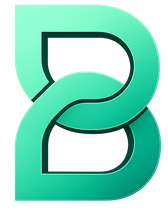
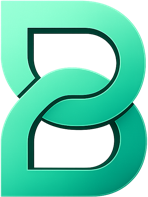
fix: polish marketing brand motion and seo

diff --git a/components/HeroSection.tsx b/components/HeroSection.tsx
@@ -53,7 +53,7 @@ export function HeroSection() {
       />
       <div className="container-x relative pt-14 pb-20 md:pt-20 md:pb-28">
         <div className="grid gap-14 lg:grid-cols-[1.05fr_0.95fr] lg:items-center lg:gap-16">
-          <div>
+          <div className="bantle-fade-up">
             <span className="inline-flex items-center gap-2 rounded-full border border-teal-200 bg-teal-50 px-3 py-1.5 text-xs uppercase tracking-[0.14em] text-teal-700">
               <span className="h-1.5 w-1.5 rounded-full bg-teal-500" />
               Coming soon · Made in India
@@ -99,7 +99,7 @@ function HeroPill({ children }: { children: ReactNode }) {
 function AppPreviewVisual() {
   return (
     <div
-      className="relative mx-auto w-full max-w-[420px]"
+      className="bantle-scene bantle-fade-up-delayed relative mx-auto w-full max-w-[420px]"
       role="img"
       aria-label="Illustrative Bantle app preview showing example subscription slots with neutral placeholder data, a verified host, a propose-a-deal action, and a note that chat starts after a deal request"
     >
@@ -108,7 +108,8 @@ function AppPreviewVisual() {
         aria-hidden="true"
         className="pointer-events-none absolute -inset-6 -z-10 rounded-[48px] bg-gradient-to-br from-teal-200/50 to-transparent blur-2xl"
       />
-      <div className="rounded-[40px] border border-line bg-white p-3 shadow-[0_40px_90px_-30px_rgba(0,60,52,0.45)] ring-1 ring-teal-900/5">
+      <div className="bantle-float">
+        <div className="bantle-tilt rounded-[40px] border border-line bg-white p-3 shadow-[0_40px_90px_-30px_rgba(0,60,52,0.45)] ring-1 ring-teal-900/5">
         <div className="overflow-hidden rounded-[32px] border border-line bg-cream">
           {/* status bar */}
           <div className="flex items-center justify-between px-5 pt-4 text-ink">
@@ -126,8 +127,8 @@ function AppPreviewVisual() {
               <img
                 src="/brand/bantle-mark.png"
                 alt=""
-                width={168}
-                height={214}
+                width={148}
+                height={197}
                 className="h-6 w-auto shrink-0 object-contain"
               />
               <span>
@@ -233,6 +234,7 @@ function AppPreviewVisual() {
             <ShieldCheck className="h-4 w-4 text-teal-600" strokeWidth={1.9} />
             Identity verification is private and manually reviewed
           </div>
+        </div>
         </div>
       </div>
     </div>

diff --git a/components/BrandMark.tsx b/components/BrandMark.tsx
@@ -6,17 +6,18 @@ interface BrandMarkProps {
   size?: "sm" | "md" | "lg";
 }
 
+// The mark is a tightly-cropped (zero-padding) glyph at 148x197, so a small
+// gap reads as one wordmark unit.
 const sizeClasses = {
-  sm: { mark: "h-6 w-auto", text: "text-[18px]", gap: "gap-2" },
-  md: { mark: "h-7 w-auto", text: "text-[20px]", gap: "gap-2" },
-  lg: { mark: "h-9 w-auto", text: "text-[25px]", gap: "gap-2.5" },
+  sm: { mark: "h-7 w-auto", text: "text-[20px]", gap: "gap-1.5" },
+  md: { mark: "h-9 w-auto", text: "text-[23px]", gap: "gap-1.5" },
+  lg: { mark: "h-11 w-auto", text: "text-[29px]", gap: "gap-2" },
 };
 
 // Marketing-only brand lockup (header, mobile nav, footer). The admin panel
 // uses its own text branding and does not import this component, so changes
-// here do not affect admin. The logo is the clean transparent mint mark with
-// no chip/background; the "Bantle" wordmark uses a lighter, tighter treatment
-// to match the mobile app's visual tone.
+// here do not affect admin. Clean transparent mint mark with no chip; the
+// "Bantle" wordmark uses a semibold, tight treatment beside the mark.
 export function BrandMark({ light = false, size = "md" }: BrandMarkProps) {
   const classes = sizeClasses[size];
 
@@ -26,12 +27,12 @@ export function BrandMark({ light = false, size = "md" }: BrandMarkProps) {
       <img
         src="/brand/bantle-mark.png"
         alt=""
-        width={168}
-        height={214}
+        width={148}
+        height={197}
         className={`${classes.mark} shrink-0 object-contain`}
       />
       <span
-        className={`${classes.text} font-medium leading-none tracking-[-0.01em] ${
+        className={`${classes.text} font-semibold leading-none tracking-[-0.02em] ${
           light ? "text-cream" : "text-teal-900"
         }`}
       >

diff --git a/app/globals.css b/app/globals.css
@@ -75,3 +75,55 @@
     text-wrap: pretty;
   }
 }
+
+/* Marketing motion helpers. CSS-only, no dependencies. All motion is gated
+   behind prefers-reduced-motion: no-preference so reduced-motion users get a
+   static, fully-visible layout. These utility classes only animate where they
+   are explicitly applied (marketing pages); they do not affect admin. */
+@keyframes bantle-float {
+  0%,
+  100% {
+    transform: translateY(0);
+  }
+  50% {
+    transform: translateY(-10px);
+  }
+}
+
+@keyframes bantle-fade-up {
+  from {
+    opacity: 0;
+    transform: translateY(14px);
+  }
+  to {
+    opacity: 1;
+    transform: translateY(0);
+  }
+}
+
+/* 3D perspective container + a subtle resting tilt that levels on hover. */
+.bantle-scene {
+  perspective: 1400px;
+}
+.bantle-tilt {
+  transition: transform 0.7s cubic-bezier(0.22, 1, 0.36, 1);
+}
+
+@media (prefers-reduced-motion: no-preference) {
+  .bantle-float {
+    animation: bantle-float 7s ease-in-out infinite;
+    will-change: transform;
+  }
+  .bantle-fade-up {
+    animation: bantle-fade-up 0.7s ease-out both;
+  }
+  .bantle-fade-up-delayed {
+    animation: bantle-fade-up 0.7s ease-out 0.12s both;
+  }
+  .bantle-tilt {
+    transform: rotateX(3deg) rotateY(-6deg);
+  }
+  .bantle-tilt:hover {
+    transform: rotateX(0deg) rotateY(0deg);
+  }
+}

diff --git a/app/sitemap.ts b/app/sitemap.ts
@@ -17,7 +17,7 @@ const publicRoutes = [
 ];
 
 export default function sitemap(): MetadataRoute.Sitemap {
-  const lastModified = new Date("2026-06-03");
+  const lastModified = new Date("2026-06-27");
 
   return publicRoutes.map((route) => ({
     url: `${SITE_URL}${route}`,

diff --git a/reports/WEB_MARKETING_ANIMATION_SEO_BRAND_POLISH_REPORT.md b/reports/WEB_MARKETING_ANIMATION_SEO_BRAND_POLISH_REPORT.md
@@ -1,0 +1,244 @@
+# Bantle Web — Marketing Animation, SEO & Brand Polish Report
+
+**Document status:** Implementation report (marketing UI / SEO polish only)
+**Date:** 2026-06-27
+**Owner:** Bantle founder / implementation agent (Claude Opus 4.8)
+**Web repo:** `/Users/syedejazahammed/Documents/GitHub/bantle-web`
+**Web branch:** `feature/trust-verification-admin-queues`
+**Mobile repo (reference only, not modified):** `/Users/syedejazahammed/Documents/GitHub/bantle`
+
+---
+
+## 1. Summary
+
+Final polish pass: enlarged the Bantle brand lockup and tightened the
+logo↔wordmark gap to near-zero, added tasteful CSS-only motion (reduced-motion
+safe), and audited SEO (already strong) with a small freshness fix. The
+remaining gap was residual transparent padding in the mark image; the asset was
+re-cropped to its exact glyph box (148×197, zero padding), so a `gap-1.5` now
+reads as one unit. The hero app-preview gained a subtle perspective tilt (levels
+on hover) and a gentle float; the hero copy fades up on load. All motion is gated
+behind `prefers-reduced-motion: no-preference`.
+
+No dependencies added (CSS/Tailwind only). No admin, DB, backend, RLS, function,
+API, middleware, or mobile change. Marketing pages stay light/cream; screenshots
+stay removed; no copy changed. `tsc`, `eslint`, `next build`, and
+`git diff --check` all pass (44/44 static pages); the reduced-motion guard and
+keyframes are present in the production CSS bundle.
+
+---
+
+## 2. Branch
+
+```text
+feature/trust-verification-admin-queues
+```
+
+---
+
+## 3. Founder feedback
+
+```text
+1. Add subtle 3D effects and cool animations if possible.
+2. Check whether the site is optimized for SEO.
+3. Slightly increase the Bantle logo size and Bantle text size.
+4. Reduce the space between the logo and the Bantle text even more.
+5. Apply the spacing/size refinement to both navbar and footer.
+```
+
+---
+
+## 4. Scope
+
+```text
+Edited: components/BrandMark.tsx, components/HeroSection.tsx, app/globals.css
+        (scoped motion utilities), app/sitemap.ts (freshness), public/brand/
+        bantle-mark.png (re-cropped), reports/*.
+Not edited: admin, DB/backend/RLS/functions/API, middleware, mobile repo,
+            package.json/lock, app/layout.tsx (SEO already complete), Header/Footer
+            (brand flows through BrandMark; no edit needed), marketing page files.
+```
+
+---
+
+## 5. Logo size / spacing changes
+
+```text
+- Root cause of the lingering gap: bantle-mark.png still had ~14px transparent
+  left padding. Re-cropped from the original to the exact glyph bounding box ->
+  148×197 with 0px padding on all sides.
+- BrandMark sizes increased and gap tightened:
+    navbar (md): mark h-7 w-7-ish -> h-9 (36px), text 20px -> 23px, gap-2 -> gap-1.5
+    footer (lg): mark -> h-11 (44px), text 25px -> 29px, gap-2 (kept)
+    sm:          mark h-7, text 20px, gap-1.5
+  Wordmark is now font-semibold with tracking-[-0.02em]; rendered height-driven
+  (w-auto) at the true 148:197 ratio, no chip/background.
+- Same BrandMark drives the desktop navbar, mobile slide-out nav, and footer, so
+  the bigger/tighter lockup applies everywhere consistently.
+- Hero app-preview header mark updated to the same asset/ratio.
+```
+
+---
+
+## 6. 3D / animation / card polish
+
+```text
+Added to app/globals.css (CSS-only, no library), all gated behind
+@media (prefers-reduced-motion: no-preference):
+- @keyframes bantle-float (gentle ±10px translateY, 7s ease-in-out infinite).
+- @keyframes bantle-fade-up (opacity + 14px rise, 0.7s) + a delayed variant.
+- .bantle-scene (perspective: 1400px), .bantle-tilt (resting
+  rotateX(3deg) rotateY(-6deg) that eases to flat on hover over 0.7s).
+
+Applied in HeroSection only:
+- Hero copy column: bantle-fade-up on load.
+- App-preview: wrapped in a perspective scene; the card has a subtle 3D tilt
+  that levels on hover and a slow float; it also fades up (delayed).
+- Existing card hover-lift/shadow on FeatureCard, HowItWorks, AppPreview, FAQ,
+  Support cards is retained (no change needed).
+
+Safety/performance:
+- Motion uses only transform/opacity (GPU-friendly, no layout shift).
+- Reduced-motion users get a static, fully-visible layout (verified in built CSS).
+- No JS listeners, no scroll/mouse handlers, no dependencies.
+- Legal/prose text blocks are not animated.
+```
+
+---
+
+## 7. SEO audit findings
+
+```text
+Already strong (app/layout.tsx + sitemap.ts + robots.ts + file-based OG/Twitter):
+- metadataBase set from SITE_URL; title default + template; description; keywords;
+  applicationName/creator/publisher/category/authors; canonical "/".
+- Open Graph (type/locale/url/siteName/title/description) and Twitter
+  (summary_large_image) configured.
+- File-based opengraph-image.tsx and twitter-image.tsx exist in (marketing).
+- robots metadata (index/follow + googleBot directives); icons (icon.svg,
+  apple-icon.svg).
+- Per-page metadata exports (title/description) on content pages.
+- app/robots.ts disallows /admin, /admin/, /reset-password, /verify and points
+  to sitemap.xml.
+- app/sitemap.ts lists only public marketing routes; admin/verify/reset excluded.
+- Heading structure: one H1 per page (HeroSection on home, PageHeader elsewhere).
+- Brand images use alt="" (decorative, beside the visible "Bantle" wordmark).
+
+Verdict: SEO optimized: YES (already comprehensive); only a freshness nit found.
+```
+
+---
+
+## 8. SEO fixes implemented
+
+```text
+- sitemap.ts lastModified refreshed 2026-06-03 -> 2026-06-27 (fresher crawl signal).
+- Confirmed (no change needed): admin/verify/reset excluded from sitemap + robots;
+  metadataBase present; OG/Twitter present; one H1 per page; decorative alt on
+  brand images.
+
+Pending / for production confirmation:
+- SITE_URL (https://bantle.in) drives metadataBase, canonical, OG, sitemap, robots.
+  Confirm this is the final production domain before launch; no env change made.
+- Optional future: a web app manifest (PWA) and explicit per-page OG images — not
+  required for indexing; deferred to avoid scope creep.
+```
+
+---
+
+## 9. Marketing page consistency check
+
+```text
+Audited /, how-it-works, safety, privacy, faq, terms, about, support, verify,
+refund-policy, community-guidelines, account-deletion, child-safety-standards.
+All share the updated Header (bigger/tighter lockup + shadow), Footer (grouped
+links + lockup), and PageHeader (mint band); content pages float in white cards
+over mint bands. All light/cream, consistent spacing/typography, no dark mismatch.
+No per-page edits required this pass; the bigger logo + motion flow through shared
+components. /verify and /reset-password remain compact auth screens (unchanged).
+```
+
+---
+
+## 10. Admin untouched confirmation
+
+```text
+git status shows changes only in components/{BrandMark,HeroSection}, app/globals.css,
+app/sitemap.ts, and public/brand/bantle-mark.png. NO changes under app/admin,
+components/admin, lib/admin, app/api, or middleware.ts. The globals.css additions
+are opt-in utility classes used only on marketing pages; admin does not use them.
+```
+
+---
+
+## 11. What did not change
+
+```text
+- app/layout.tsx (SEO already complete), Header.tsx, Footer.tsx, FeatureCard.tsx,
+  PageHeader.tsx, MobileNav.tsx (brand flows via BrandMark), marketing page files.
+- DB, migrations, RLS, Supabase/Edge functions, backend, API, admin, auth,
+  middleware. Dependencies. tailwind config / theme tokens.
+- robots.ts (already correct). All legal/privacy/safety copy.
+- Mobile repo. Removed screenshot assets remain removed. Homepage stays light/cream.
+```
+
+---
+
+## 12. Validation results
+
+```text
+npx tsc --noEmit  -> PASS
+npm run lint      -> PASS (eslint ., 0 errors/warnings)
+npm run build     -> PASS (Compiled successfully; 44/44 static pages)
+git diff --check  -> clean
+
+Checks:
+- Homepage HTML includes bantle-scene/bantle-tilt/bantle-float/bantle-fade-up.
+- Production CSS bundle contains @keyframes bantle-float/bantle-fade-up and the
+  `@media (prefers-reduced-motion: no-preference)` guard.
+- Mark asset cropped to 148×197 (0px padding). Original backed up to /tmp.
+- sitemap has 0 admin entries; robots disallows /admin, /verify, /reset-password.
+
+Mobile repo (bantle): only pre-existing builds/*.apk deletions; branch unchanged.
+```
+
+---
+
+## 13. Files changed
+
+```text
+components/BrandMark.tsx       (bigger mark/text, gap-1.5, 148:197 ratio, semibold)
+components/HeroSection.tsx     (perspective tilt + float + fade-up; mark ratio)
+app/globals.css                (reduced-motion-gated keyframes + .bantle-* utilities)
+app/sitemap.ts                 (lastModified freshness)
+public/brand/bantle-mark.png   (re-cropped to zero-padding glyph)
+reports/WEB_MARKETING_ANIMATION_SEO_BRAND_POLISH_REPORT.md   (this report)
+```
+
+No `.env`, logs, build artifacts, backups, credentials, screenshots, or
+unrelated files included.
+
+---
+
+## 14. Risks / blockers
+
+```text
+- Low risk. Brand sizing/spacing, CSS-only motion, and a one-line SEO freshness
+  change; tsc/lint/build pass; reversible (original mark backed up to /tmp).
+- The resting 3D tilt is subtle (rotateX 3°, rotateY -6°) and levels on hover; if
+  the founder prefers no resting tilt, removing the .bantle-tilt transform (keeping
+  float + fade-up) is a one-line change.
+- bantle-icon.png remains unused in public/brand (prior pass); can be removed later.
+- metadataBase/canonical depend on SITE_URL — confirm production domain pre-launch.
+```
+
+---
+
+## 15. Next recommended step
+
+```text
+1. Founder reviews the larger, tighter logo lockup (navbar + footer) and the hero
+   motion (float/tilt/fade-up) on desktop + mobile, and with OS "reduce motion" on.
+2. Optional: add a PWA manifest and per-page OG images; remove unused bantle-icon.png.
+3. Confirm the production domain in SITE_URL, then open a PR.
+```
